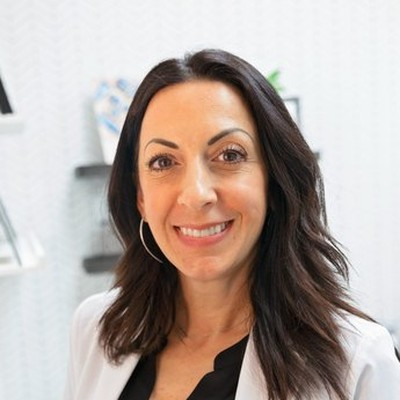
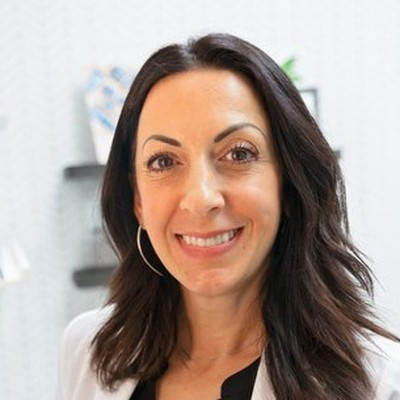
Reframe Jesi's board photo to match the others
Claude-Session: https://claude.ai/code/session_01C9bL4owB6azj7Dpv59nEPu

diff --git a/index.html b/index.html
@@ -295,11 +295,11 @@ footer{background:var(--teal-dk);color:var(--on-dark-2);padding:72px 0 48px}
       <p style="font-size:18px;line-height:1.6;color:var(--body);max-width:640px">Five women who said yes to this calling, serving and guiding the ministry with faith, wisdom, and care.</p>
     </div>
     <div class="board">
-      <div class="member"><img src="images/jesi-waldrop.jpg?v=3" alt="Jesi Waldrop" width="148" height="148" loading="lazy"><h3>Jesi Waldrop</h3><p>FOUNDER &amp; PRESIDENT</p></div>
-      <div class="member"><img src="images/deanna-hurley.jpg?v=3" alt="Deanna Hurley" width="148" height="148" loading="lazy"><h3>Deanna Hurley</h3><p>SECRETARY &amp; TREASURER</p></div>
-      <div class="member"><img src="images/dorothy-groover-skipper.jpg?v=3" alt="Dorothy Groover-Skipper" width="148" height="148" loading="lazy"><h3>Dorothy Groover-Skipper</h3><p>DIRECTOR</p></div>
-      <div class="member"><img src="images/sunni-moreno.jpg?v=3" alt="Sunni Moreno" width="148" height="148" loading="lazy"><h3>Sunni Moreno</h3><p>DIRECTOR</p></div>
-      <div class="member"><img src="images/shannon-keil.jpg?v=3" alt="Shannon Keil" width="148" height="148" loading="lazy"><h3>Shannon Keil</h3><p>DIRECTOR</p></div>
+      <div class="member"><img src="images/jesi-waldrop.jpg?v=4" alt="Jesi Waldrop" width="148" height="148" loading="lazy"><h3>Jesi Waldrop</h3><p>FOUNDER &amp; PRESIDENT</p></div>
+      <div class="member"><img src="images/deanna-hurley.jpg?v=4" alt="Deanna Hurley" width="148" height="148" loading="lazy"><h3>Deanna Hurley</h3><p>SECRETARY &amp; TREASURER</p></div>
+      <div class="member"><img src="images/dorothy-groover-skipper.jpg?v=4" alt="Dorothy Groover-Skipper" width="148" height="148" loading="lazy"><h3>Dorothy Groover-Skipper</h3><p>DIRECTOR</p></div>
+      <div class="member"><img src="images/sunni-moreno.jpg?v=4" alt="Sunni Moreno" width="148" height="148" loading="lazy"><h3>Sunni Moreno</h3><p>DIRECTOR</p></div>
+      <div class="member"><img src="images/shannon-keil.jpg?v=4" alt="Shannon Keil" width="148" height="148" loading="lazy"><h3>Shannon Keil</h3><p>DIRECTOR</p></div>
     </div>
   </div>
 </section>
